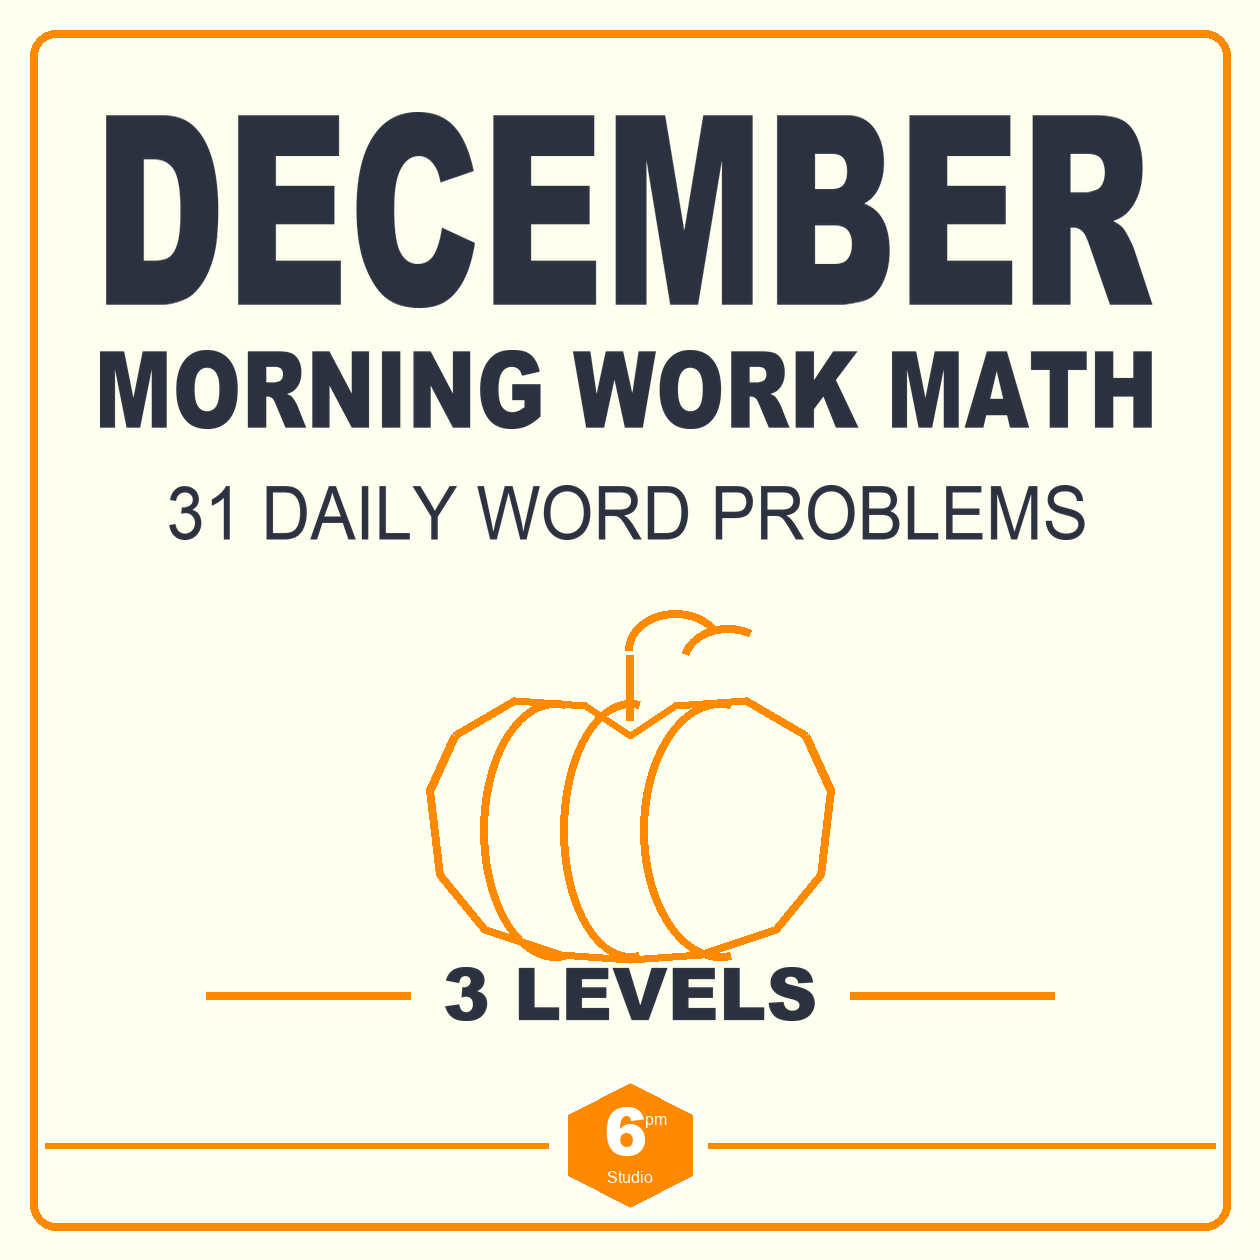
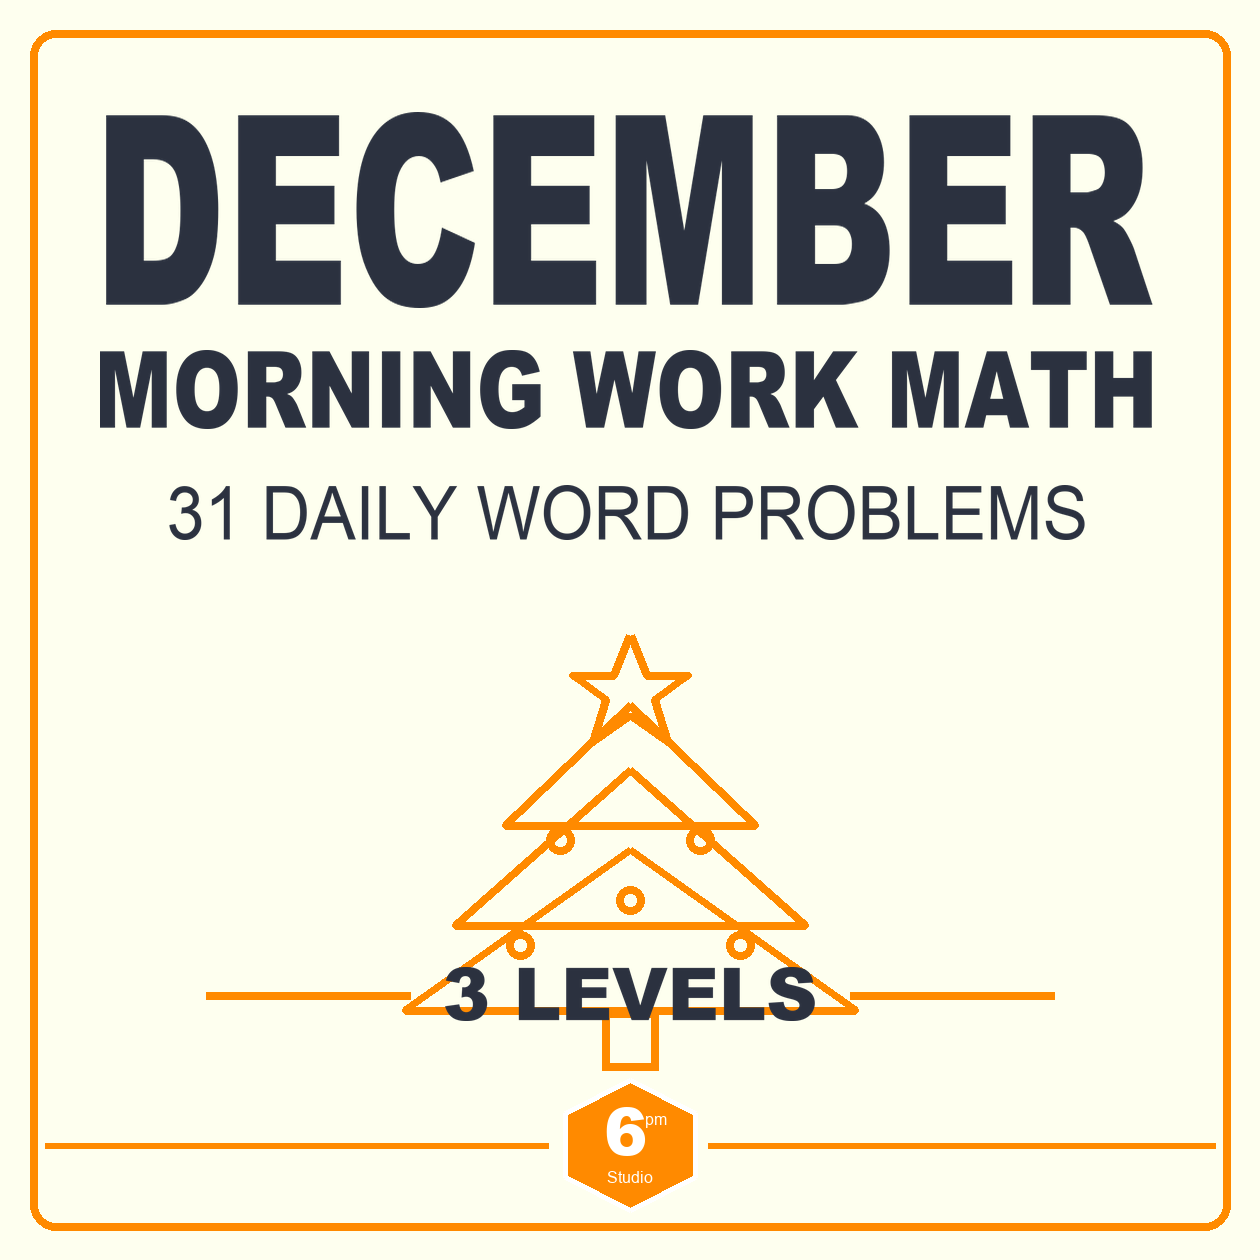
fix: make December TPT cover month-specific

diff --git a/scripts/generate_monthly_thumbnails.py b/scripts/generate_monthly_thumbnails.py
@@ -151,6 +151,30 @@ def pumpkin_doodle(canvas):
     draw.arc((680, 625, 775, 700), 195, 300, fill=ORANGE, width=stroke)
 
 
+def december_doodle(canvas):
+    """Draw a December-specific outline-only evergreen and star.
+
+    December must not inherit the generic pumpkin fallback.  This keeps the
+    canonical art-box geometry and orange stroke while making the seasonal
+    variable unmistakable at thumbnail size.
+    """
+    draw = ImageDraw.Draw(canvas)
+    stroke = 8
+    # Star topper.
+    star = [(630, 635), (646, 675), (688, 675), (654, 700),
+            (667, 742), (630, 716), (593, 742), (606, 700),
+            (572, 675), (614, 675)]
+    draw.line(star + [star[0]], fill=ORANGE, width=stroke, joint="curve")
+    # Three open evergreen tiers.
+    draw.line([(630, 705), (505, 825), (755, 825), (630, 705)], fill=ORANGE, width=stroke, joint="curve")
+    draw.line([(630, 770), (455, 925), (805, 925), (630, 770)], fill=ORANGE, width=stroke, joint="curve")
+    draw.line([(630, 850), (405, 1010), (855, 1010), (630, 850)], fill=ORANGE, width=stroke, joint="curve")
+    # Trunk and simple ornaments, all unfilled.
+    draw.rectangle((602, 1010, 658, 1070), outline=ORANGE, width=stroke)
+    for x, y in [(560, 840), (700, 840), (520, 945), (630, 900), (740, 945)]:
+        draw.ellipse((x - 14, y - 14, x + 14, y + 14), outline=ORANGE, width=stroke)
+
+
 def centered(draw, text, y, size, max_width=1120, fill=NAVY, bold=True):
     draw.text((630, y), text, anchor="ma", fill=fill, font=fitted(text, max_width, size, bold))
 
@@ -317,12 +341,15 @@ def logo(canvas, page):
     return None
 
 
-def draw_monthly_doodle(canvas, doodle_path=None):
+def draw_monthly_doodle(canvas, month=None, doodle_path=None):
     """Place the approved month-specific transparent doodle in the fixed art box."""
     if doodle_path and Path(doodle_path).exists():
         source = Image.open(doodle_path).convert("RGBA")
         source.thumbnail((360, 330), Image.Resampling.LANCZOS)
         canvas.alpha_composite(source, ((SIZE - source.width) // 2, 620))
+        return
+    if month and month.lower() == "december":
+        december_doodle(canvas)
         return
     pumpkin_doodle(canvas)
 
@@ -341,7 +368,7 @@ def compose_cover(month, day_count, out, source_page, doodle_path=None):
     cover_text_box(canvas, "MORNING WORK MATH", (100, 350, 1152, 429))
     cover_text_box(canvas, f"{day_count} DAILY WORD PROBLEMS", (169, 485, 1085, 540), bold=False)
     stroke = 8
-    draw_monthly_doodle(canvas, doodle_path)
+    draw_monthly_doodle(canvas, month, doodle_path)
     cover_text_box(canvas, "3 LEVELS", (445, 967, 815, 1021))
     draw.line((206, 995, 410, 995), fill=ORANGE, width=8)
     draw.line((850, 995, 1054, 995), fill=ORANGE, width=8)
@@ -643,7 +670,7 @@ def main():
         "pdf_sha256": actual_pdf_sha256,
         "doodle_sha256": hashlib.sha256(doodle_path.read_bytes()).hexdigest() if doodle_path else None,
         "copyConcepts": {
-            "cover": {"headline": manifest["product"]["month"].title(), "productTitle": "MORNING WORK MATH", "supportingText": [f"{day_count} DAILY WORD PROBLEMS"], "levelsBlock": "3 LEVELS with orange side lines", "doodle": "orange line-art pumpkin" if doodle_path is None else manifest["doodle"]["path"], "doodlePrompt": "recognizable pumpkin silhouette with five ribbed lobes, curved stem, outlined leaf, and flattened base; orange outline only; no fill or shading" if doodle_path is None else "month-specific approved transparent orange line-art doodle; fixed art box; no fill or shading"},
+            "cover": {"headline": manifest["product"]["month"].title(), "productTitle": "MORNING WORK MATH", "supportingText": [f"{day_count} DAILY WORD PROBLEMS"], "levelsBlock": "3 LEVELS with orange side lines", "doodle": "December evergreen and star" if manifest["product"]["month"].lower() == "december" and doodle_path is None else ("orange line-art pumpkin" if doodle_path is None else manifest["doodle"]["path"]), "doodlePrompt": "outline-only December evergreen with star and unfilled ornaments; orange stroke; fixed art box; no fill or shading" if manifest["product"]["month"].lower() == "december" and doodle_path is None else ("recognizable pumpkin silhouette with five ribbed lobes, curved stem, outlined leaf, and flattened base; orange outline only; no fill or shading" if doodle_path is None else "month-specific approved transparent orange line-art doodle; fixed art box; no fill or shading")},
             "whats_included": {"headline": "WHAT’S INCLUDED", "sourceLayout": "story, level 1, level 2 / level 3, answer key", "headlineEmphasis": "three orange rays on each side", "labelStyle": "orange pills narrower than cards", "footer": "centered logo without divider lines", "parityFixture": "references /thumbnail-assets/thumbnail-2-reference.png", "failureLoop": "rerun prompt/compositor optimization until fixed-region visual QA passes"},
             "different_math": {"headline": [manifest["product"]["month"].title(), "Morning Work Math"], "supportingText": f"{day_count} Daily Word Problems · 3 Levels", "sourceLayout": "October reference frame with three fixed-geometry real worksheet replacements", "headlineSideLines": "short orange horizontal rules around the month", "labelStyle": "large uppercase navy labels", "parityFixture": "references /thumbnail-assets/thumbnail-3-reference.png", "failureLoop": "rerun prompt/compositor optimization until fixed-region pixel QA passes"},
             "daily_practice": {"headline": ["READY FOR", "DAILY PRACTICE"], "useCases": ["MORNING WORK", "BELL RINGERS", "HOMESCHOOL"], "headlineEmphasis": "three orange rays on each side", "useCaseSeparators": "vertical orange lines", "sourceLayout": "one centered borderless real worksheet preview with October-matched shadow and crop", "parityFixture": "references /thumbnail-assets/thumbnail-4-reference.png", "failureLoop": "rerun prompt/compositor optimization until fixed-region visual QA passes"},
